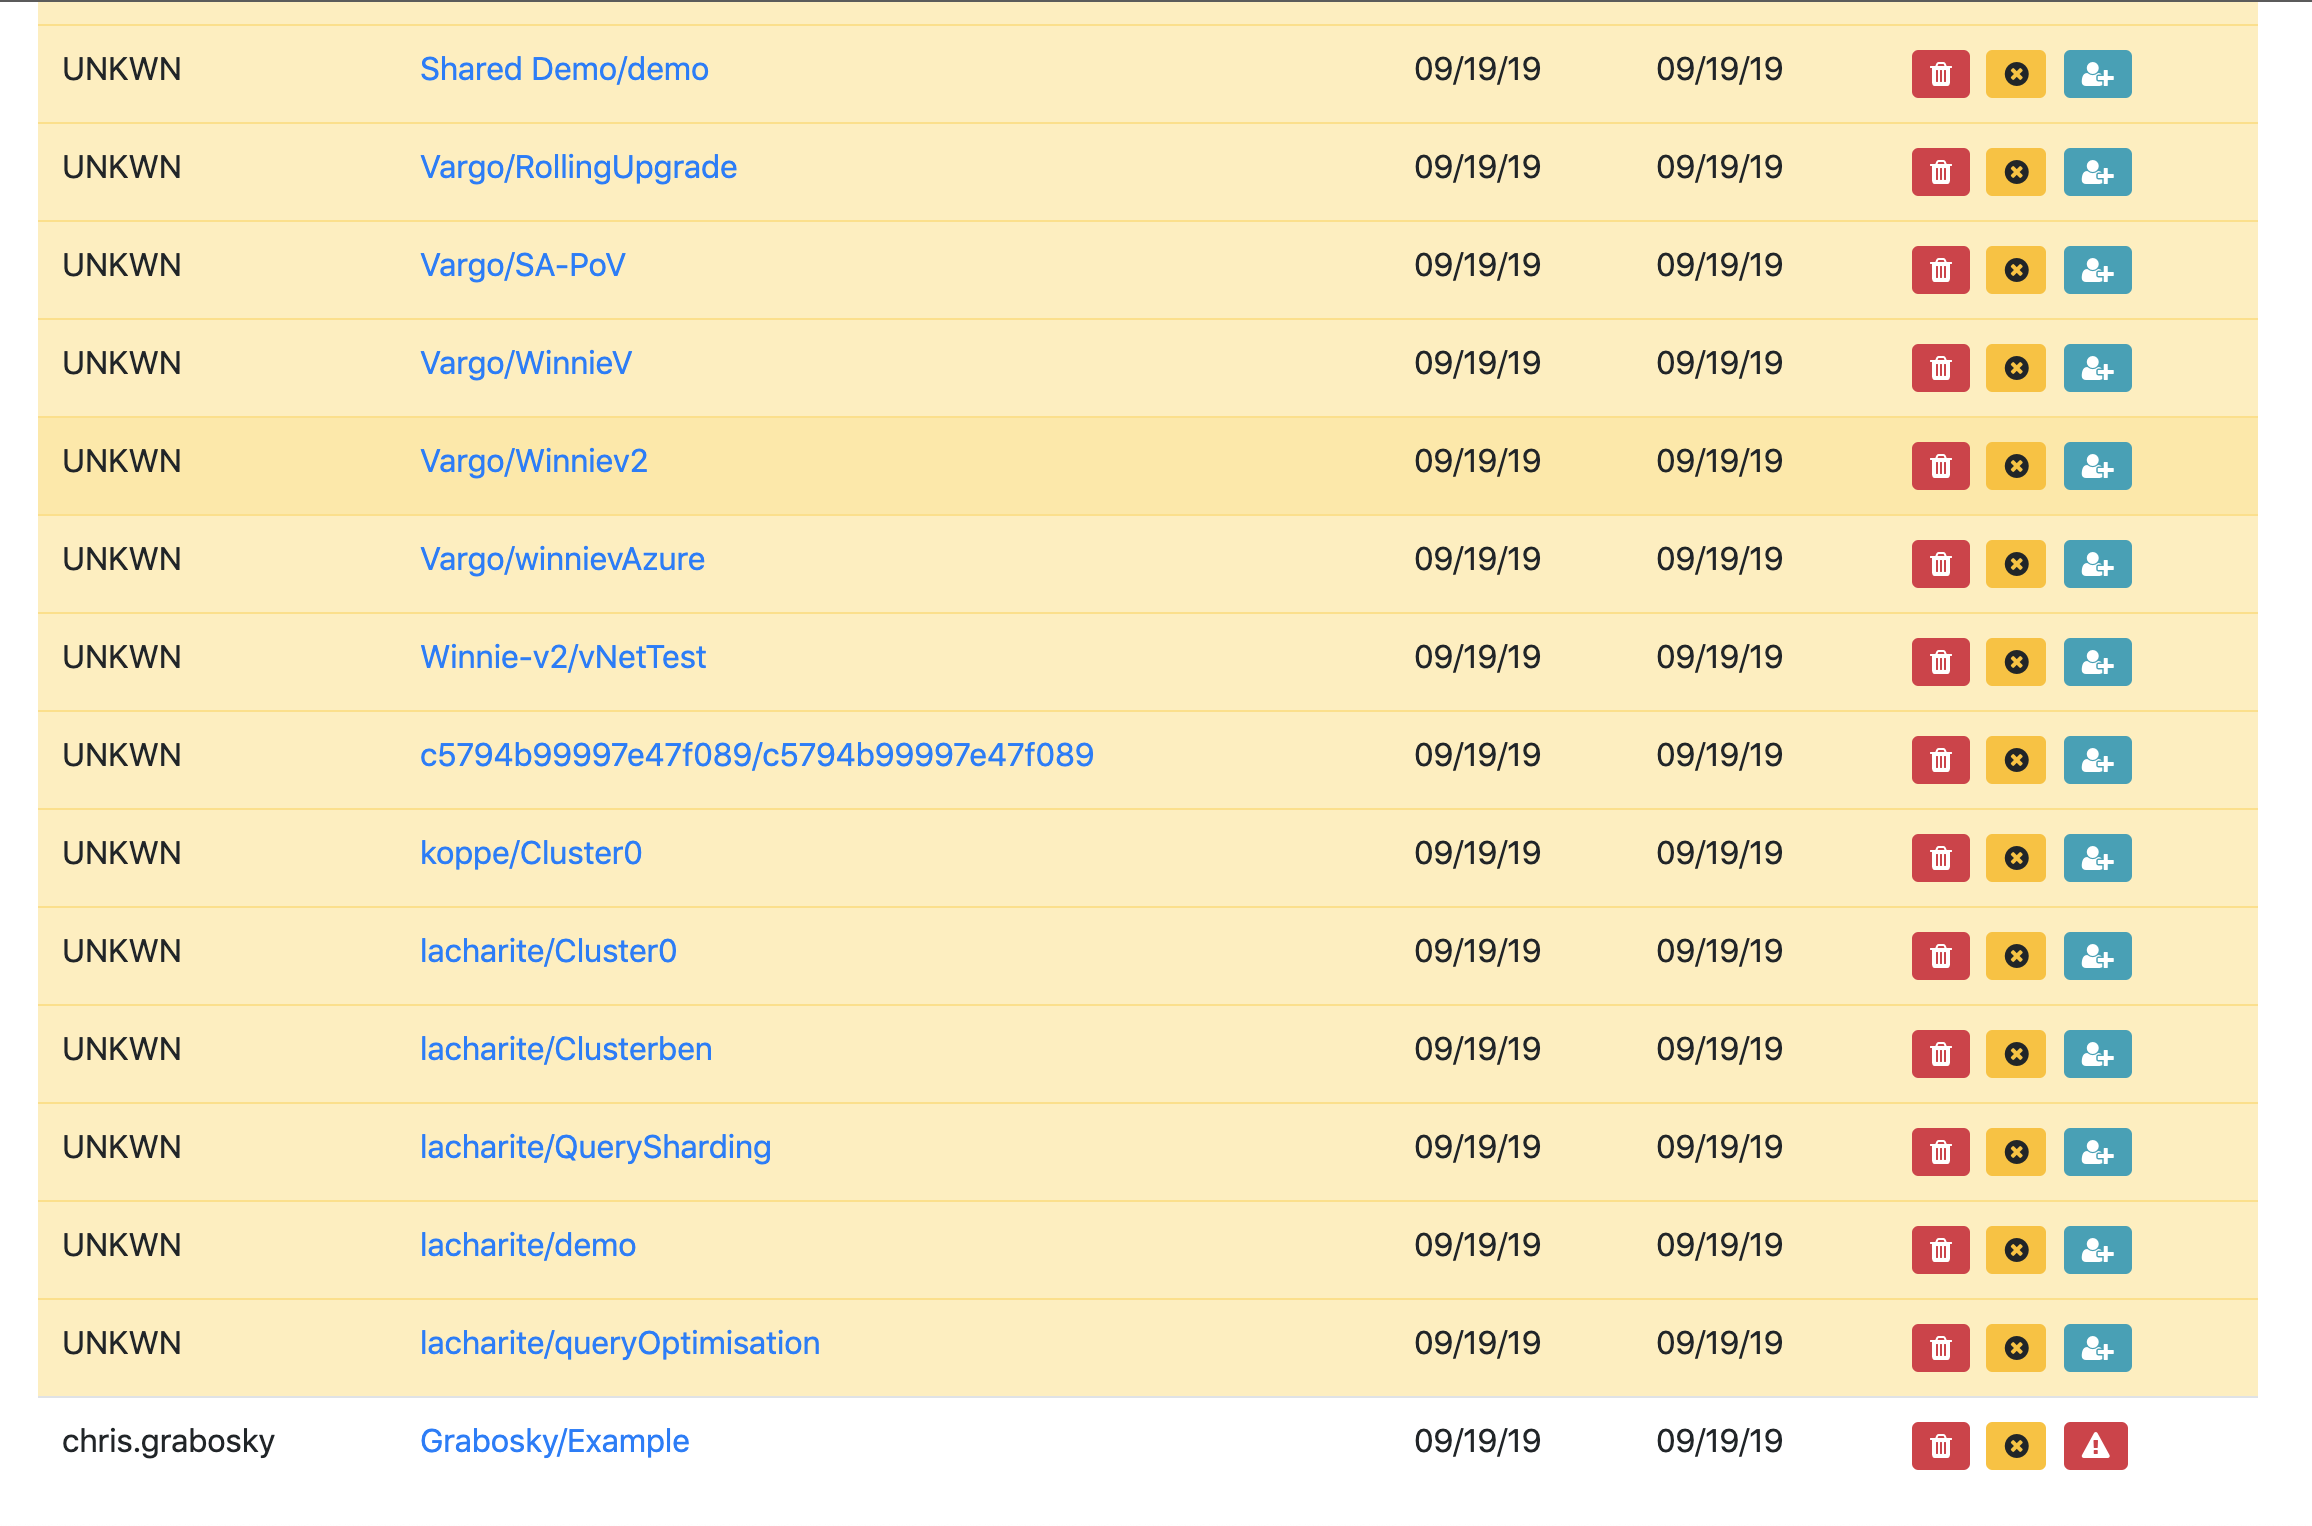
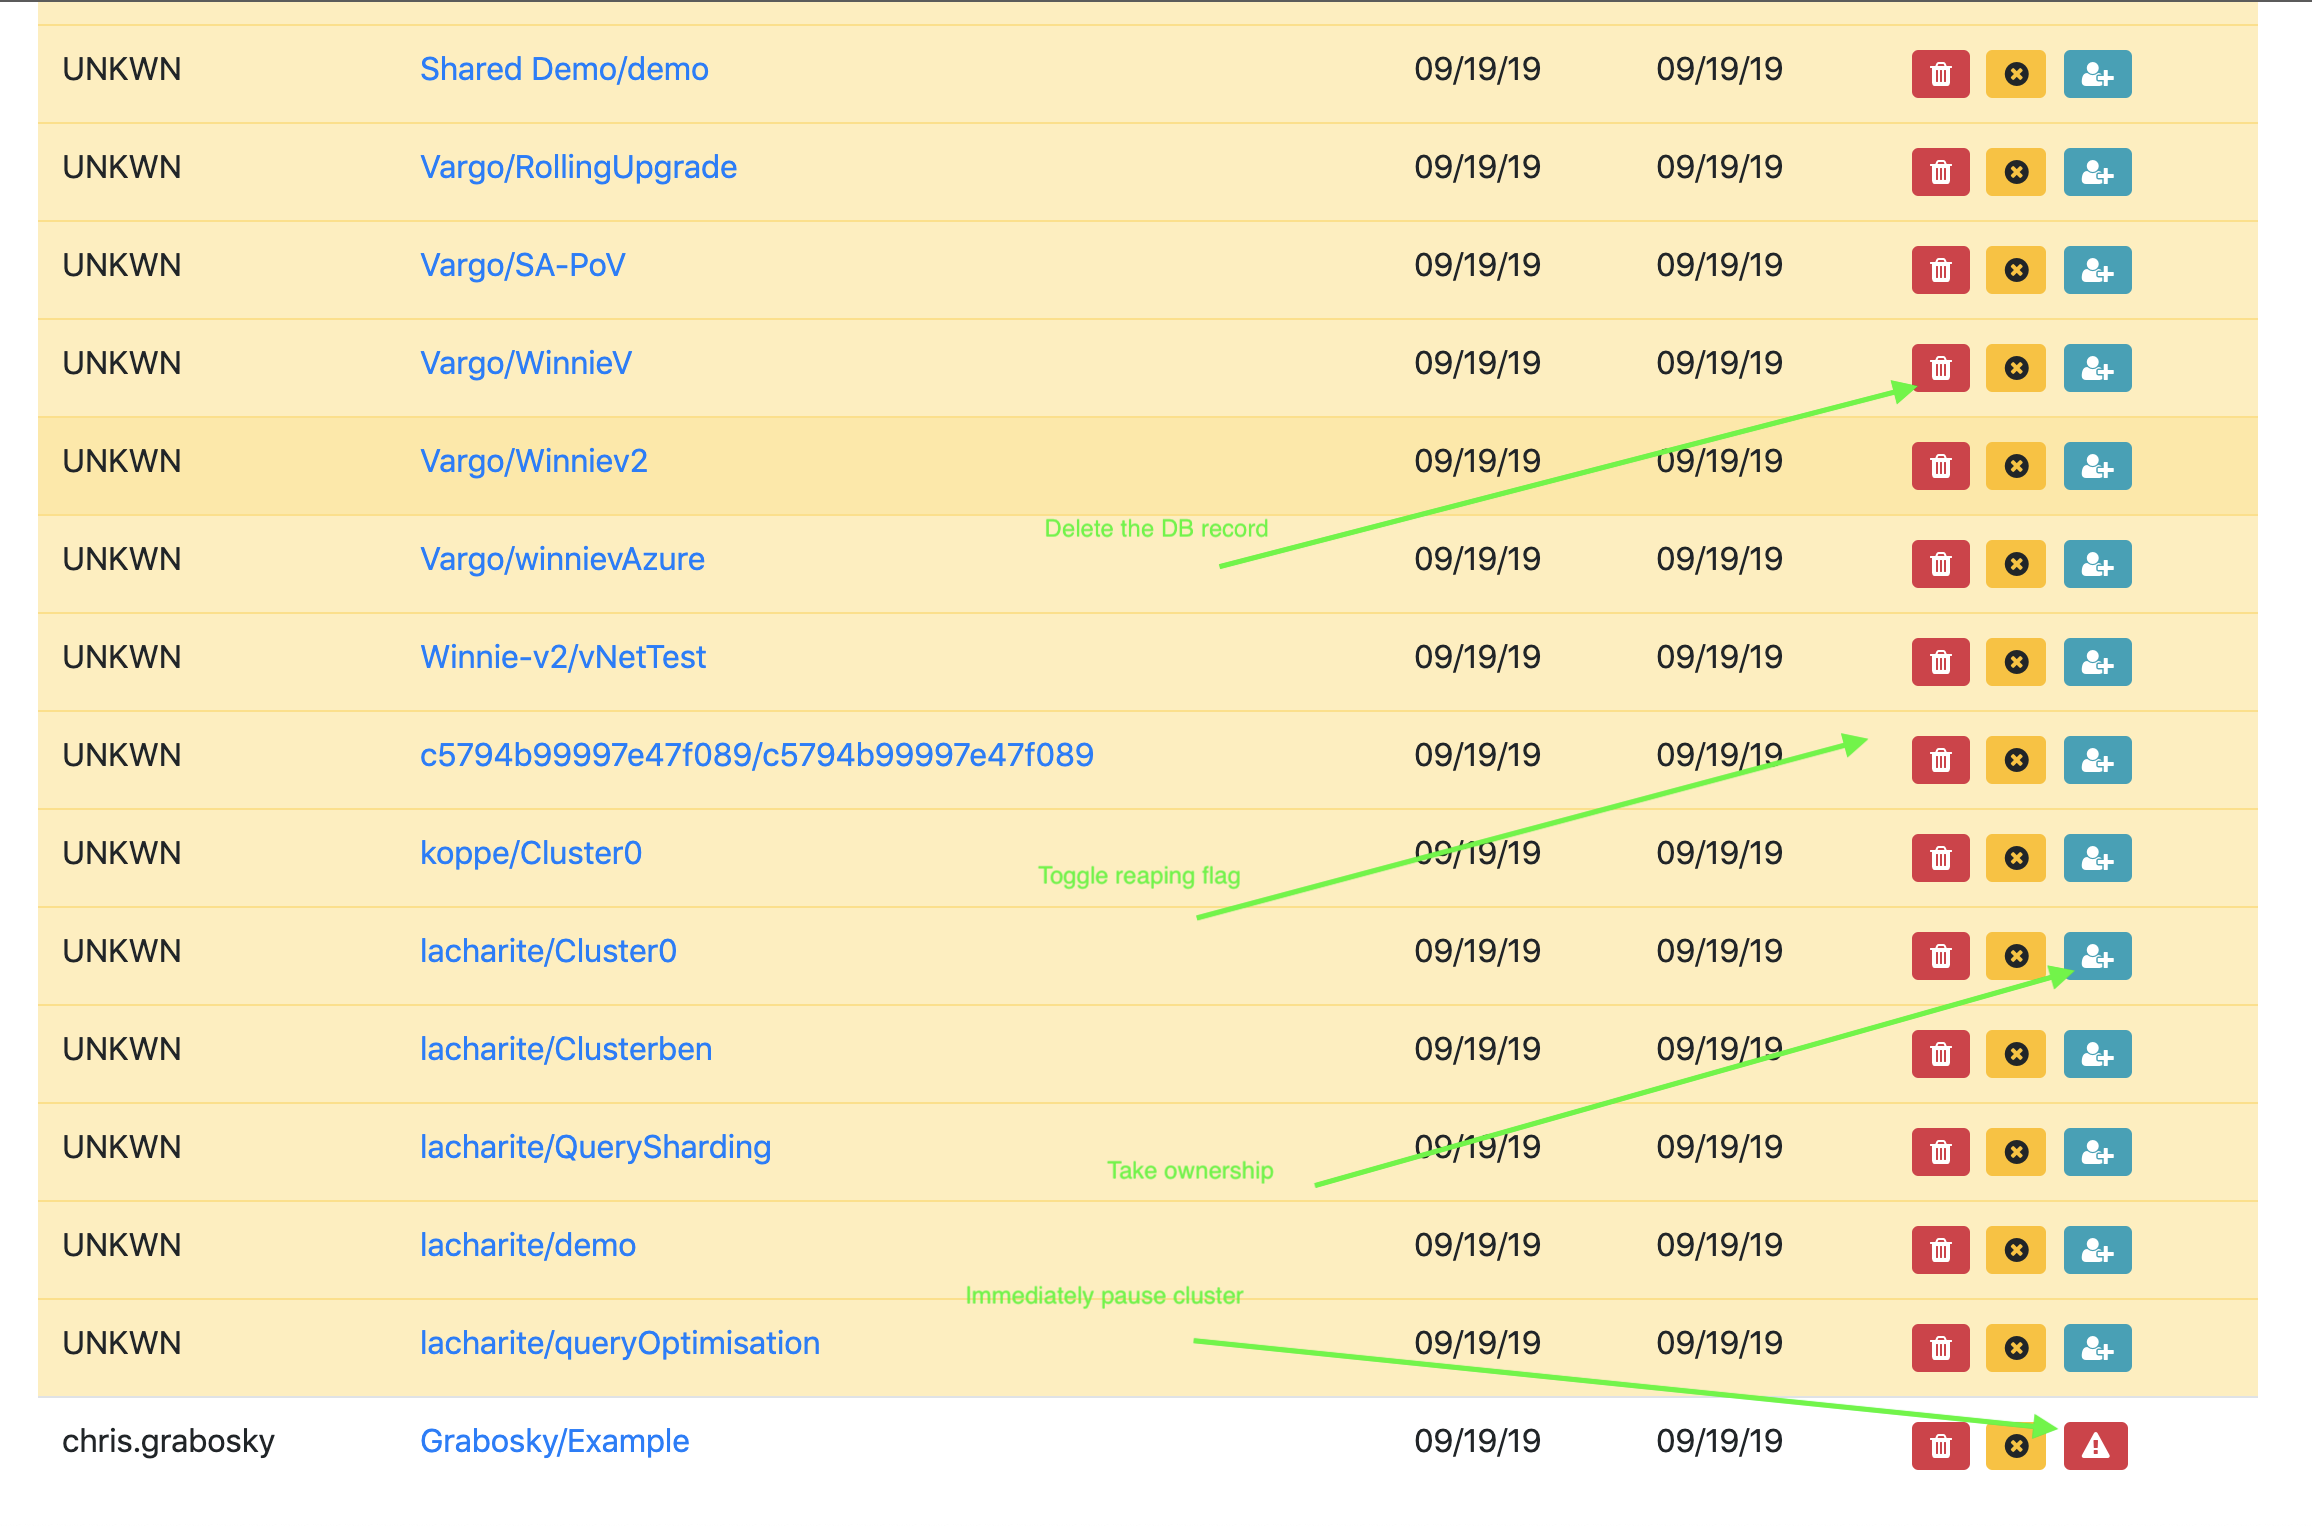
readme

diff --git a/README.md b/README.md
@@ -10,6 +10,17 @@ There is a simple UI to power that.
 ![](Screenshots/ss02.png)
 ![](Screenshots/ss03.png)
 
+The UI is labeled:
+* Refresh button at top pulls new clusters it finds from Atlas API
+* Trash can deletes DB record of cluster (not terminating the cluster)
+* The X will toggle whether the cluster should be auto-reaped. Default is it will be auto reaped (`noReap:false`)
+* The person is visible on unclaimed clusters. This changes the `owner` field to your info
+* the warning triangle will immediately pause the cluster 
+* Cells that are white will not be auto realed (`noReap:false`)
+* Cells that are yellow are in a warning state
+* Cells that are red means that cluster will be reaped tomorrow
+* Cells that are black means the system paused that cluster
+
 ## Code explanation
 ### Database
 Database used is the `atlasmonitor` database. In it is the `log` collection which gets filled every day with the output of Atlas API calls, triggers run against that to create the `clusters` collection which is used for the UI and business decisions, and if any cluster is paused or deleted, an entry for that API call is made in the `changelog` collection. The `clusters` collection does have a unique index put on  `project:1,name:1` for the project and cluster friendly names.
